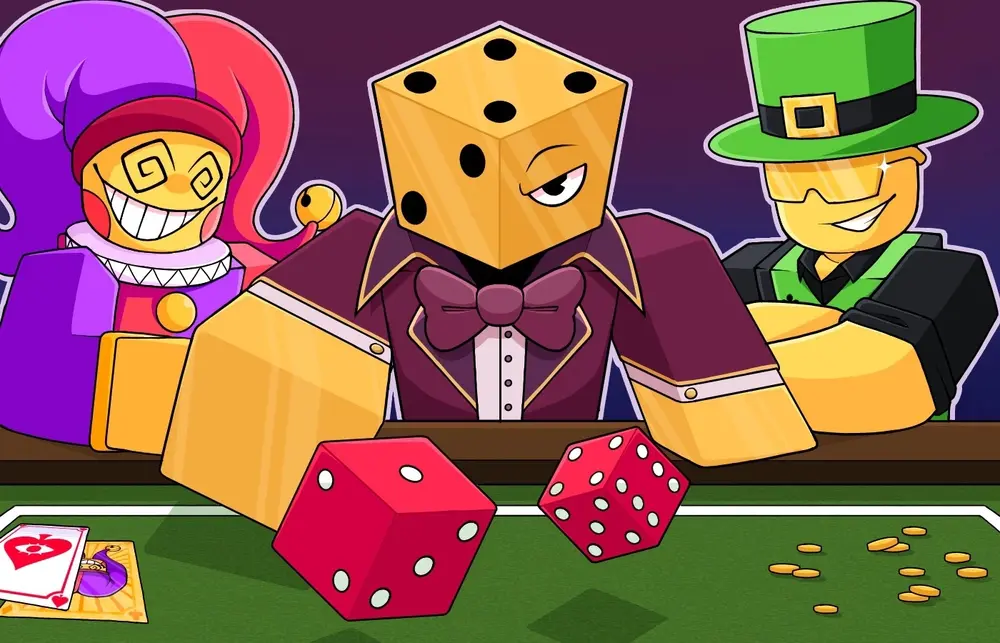
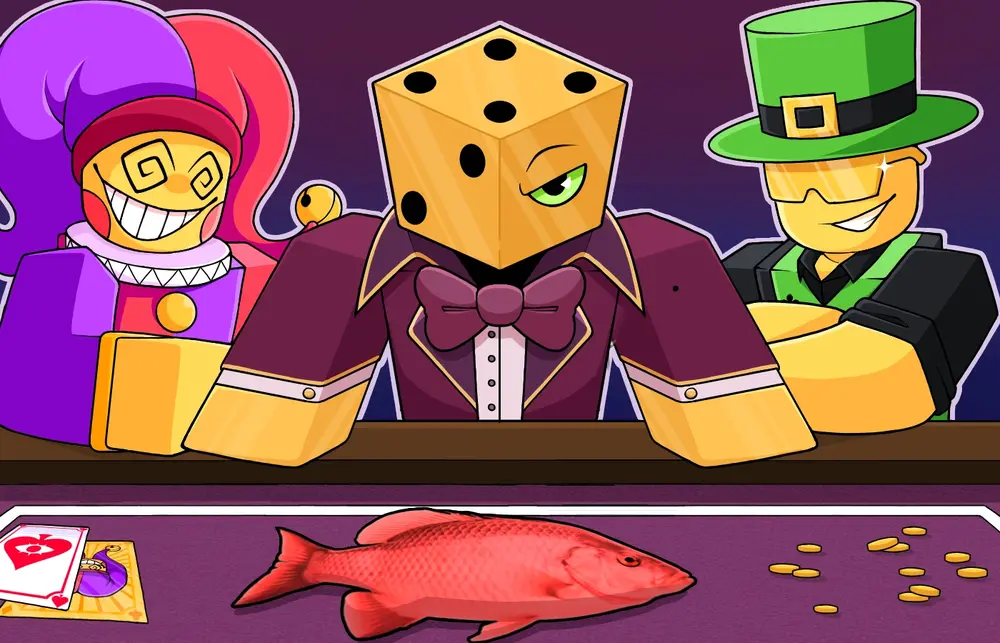
v0.951
new banners

diff --git a/index.html b/index.html
@@ -1003,6 +1003,139 @@ body {
   filter: brightness(1.15);
 }
 .btn-badge-link:active { transform: scale(0.94); }
+
+/* ============================================================
+   BTN PREVIEW (play button sobre el banner del detail)
+   ============================================================ */
+#btn-banner-play {
+  position: absolute;
+  bottom: 10px;
+  right: 10px;
+  width: 42px;
+  height: 42px;
+  background: rgba(0,0,0,0.68);
+  border: 3px solid var(--yellow-bright);
+  border-radius: 10px;
+  color: var(--yellow-bright);
+  font-size: 1.15rem;
+  cursor: pointer;
+  display: flex;
+  align-items: center;
+  justify-content: center;
+  z-index: 4;
+  transition: background .15s, transform .1s, box-shadow .15s;
+  box-shadow: 0 2px 10px rgba(0,0,0,0.7);
+  backdrop-filter: blur(3px);
+  font-family: 'Fredoka One', cursive;
+}
+#btn-banner-play:hover {
+  background: var(--yellow-bright);
+  color: #111;
+  transform: scale(1.1);
+  box-shadow: 0 0 14px rgba(255,215,0,0.6);
+}
+#btn-banner-play:active { transform: scale(0.92); }
+
+/* ============================================================
+   VIDEO PLAYER MODAL
+   ============================================================ */
+#video-modal-overlay {
+  display: none;
+  position: fixed;
+  inset: 0;
+  z-index: 800;
+  background: rgba(0,0,0,0.92);
+  align-items: center;
+  justify-content: center;
+  animation: fadeInDetail .2s ease;
+}
+#video-modal-overlay.open { display: flex; }
+
+#video-modal {
+  position: relative;
+  background: var(--bg-panel);
+  border: 4px solid var(--yellow-bright);
+  border-radius: 16px;
+  box-shadow: var(--shadow-glow), 0 16px 50px rgba(0,0,0,0.85);
+  width: min(860px, 94vw);
+  overflow: hidden;
+  animation: cardIn .28s ease both;
+  display: flex;
+  flex-direction: column;
+}
+
+#video-modal-header {
+  display: flex;
+  align-items: center;
+  justify-content: space-between;
+  padding: 11px 16px;
+  background: linear-gradient(90deg, #0a0a0a 0%, #1c1c1c 100%);
+  border-bottom: 3px solid var(--yellow-bright);
+  flex-shrink: 0;
+}
+#video-modal-title {
+  font-family: 'Fredoka One', cursive;
+  font-size: 1.15rem;
+  color: var(--yellow-bright);
+  text-shadow: 0 0 12px rgba(255,215,0,0.5), 1px 1px 0 #000;
+  letter-spacing: 1px;
+}
+#btn-close-video {
+  background: var(--red-close);
+  color: #fff;
+  border: 3px solid #000;
+  border-radius: 10px;
+  width: 40px; height: 40px;
+  font-family: 'Fredoka One', cursive;
+  font-size: 1.3rem;
+  cursor: pointer;
+  box-shadow: 0 3px 0 #000;
+  transition: filter .15s, transform .1s;
+  display: flex; align-items: center; justify-content: center;
+  flex-shrink: 0;
+}
+#btn-close-video:hover  { filter: brightness(1.2); }
+#btn-close-video:active { transform: scale(0.91); }
+
+#video-modal-body {
+  position: relative;
+  width: 100%;
+  aspect-ratio: 16 / 9;
+  background: #000;
+  display: flex;
+  align-items: center;
+  justify-content: center;
+}
+
+#video-player {
+  width: 100%;
+  height: 100%;
+  display: block;
+  background: #000;
+}
+
+#video-placeholder {
+  display: none;
+  position: absolute;
+  inset: 0;
+  flex-direction: column;
+  align-items: center;
+  justify-content: center;
+  gap: 14px;
+  background: repeating-linear-gradient(-45deg,#1e1600 0,#1e1600 18px,#130f00 18px,#130f00 36px);
+  font-family: 'Fredoka One', cursive;
+  color: #555;
+}
+#video-placeholder img {
+  max-width: 55%;
+  max-height: 55%;
+  object-fit: contain;
+  border-radius: 10px;
+  border: 2px solid #333;
+  opacity: 0.7;
+}
+#video-placeholder .vph-emoji  { font-size: 3.2rem; display: none; }
+#video-placeholder .vph-text   { font-size: 1rem; color: #555; letter-spacing: .5px; }
 </style>
 </head>
 <body>
@@ -1078,6 +1211,7 @@ body {
           <span class="ph-emoji">🖼️</span>
           <span id="ph-banner-text">Sin banner disponible</span>
         </div>
+        <button id="btn-banner-play" onclick="openVideoModal(detailOpen && detailOpen.id)" title="Ver preview del guante">▶</button>
       </div>
 
       <div id="detail-glove-row">
@@ -1115,6 +1249,26 @@ body {
       <div id="missions-list"></div>
     </div>
 
+  </div>
+</div>
+
+<!-- ========================================================
+     VIDEO PREVIEW MODAL
+     ======================================================== -->
+<div id="video-modal-overlay" onclick="if(event.target===this)closeVideoModal()">
+  <div id="video-modal">
+    <div id="video-modal-header">
+      <span id="video-modal-title">▶ PREVIEW</span>
+      <button id="btn-close-video" onclick="closeVideoModal()" title="Cerrar">✕</button>
+    </div>
+    <div id="video-modal-body">
+      <video id="video-player" controls autoplay></video>
+      <div id="video-placeholder">
+        <img id="video-placeholder-img" src="preview_placeholder.png" alt="Sin preview">
+        <span class="vph-emoji">🎬</span>
+        <span class="vph-text">Preview no disponible</span>
+      </div>
+    </div>
   </div>
 </div>
 
@@ -2158,8 +2312,8 @@ function setupEventDelegation() {
     e.stopPropagation();
     const action = btn.dataset.action;
     const id     = btn.dataset.id;
-    if (action === 'open')   openDetail(id);
-    if (action === 'toggle') toggleCompleted(id);
+    if (action === 'open')         openDetail(id);
+    if (action === 'toggle')       toggleCompleted(id);
   });
 
   // Detail: misiones
@@ -2185,7 +2339,75 @@ function setupEventDelegation() {
    ============================================================ */
 document.addEventListener('keydown', e => {
   if (e.key === 'Escape' && detailOpen) closeDetail();
+  if (e.key === 'Escape' && document.getElementById('video-modal-overlay').classList.contains('open')) closeVideoModal();
 });
+
+/* ============================================================
+   VIDEO PREVIEW MODAL
+   ============================================================ */
+function openVideoModal(gloveId) {
+  const overlay    = document.getElementById('video-modal-overlay');
+  const player     = document.getElementById('video-player');
+  const placeholder = document.getElementById('video-placeholder');
+  const phImg      = document.getElementById('video-placeholder-img');
+  const phEmoji    = document.querySelector('#video-placeholder .vph-emoji');
+  const titleEl    = document.getElementById('video-modal-title');
+  const mastery    = MASTERIES.find(m => m.id === gloveId);
+
+  titleEl.textContent = '▶ PREVIEW — ' + (mastery ? mastery.name.toUpperCase() : gloveId.toUpperCase());
+
+  // Reset state
+  player.style.display      = 'block';
+  placeholder.style.display = 'none';
+  player.pause();
+  player.removeAttribute('src');
+  player.load();
+
+  // Probar si el .mp4 existe con fetch (anti-error silencioso)
+  const videoSrc = 'preview_' + gloveId + '.mp4';
+  fetch(videoSrc, { method: 'HEAD' })
+    .then(res => {
+      if (res.ok) {
+        player.src = videoSrc;
+        player.style.display      = 'block';
+        placeholder.style.display = 'none';
+        player.play().catch(() => {}); // autoplay puede bloquearse
+      } else {
+        showVideoPlaceholder(player, placeholder, phImg, phEmoji);
+      }
+    })
+    .catch(() => {
+      showVideoPlaceholder(player, placeholder, phImg, phEmoji);
+    });
+
+  overlay.classList.add('open');
+  document.body.style.overflow = 'hidden';
+}
+
+function showVideoPlaceholder(player, placeholder, phImg, phEmoji) {
+  player.style.display      = 'none';
+  placeholder.style.display = 'flex';
+  // Probar si existe preview_placeholder.png
+  const testImg = new Image();
+  testImg.onload = () => {
+    phImg.style.display   = 'block';
+    phEmoji.style.display = 'none';
+  };
+  testImg.onerror = () => {
+    phImg.style.display   = 'none';
+    phEmoji.style.display = 'block';
+  };
+  testImg.src = 'preview_placeholder.png';
+}
+
+function closeVideoModal() {
+  const overlay = document.getElementById('video-modal-overlay');
+  const player  = document.getElementById('video-player');
+  player.pause();
+  player.src = '';
+  overlay.classList.remove('open');
+  document.body.style.overflow = '';
+}
 
 /* ============================================================
    START